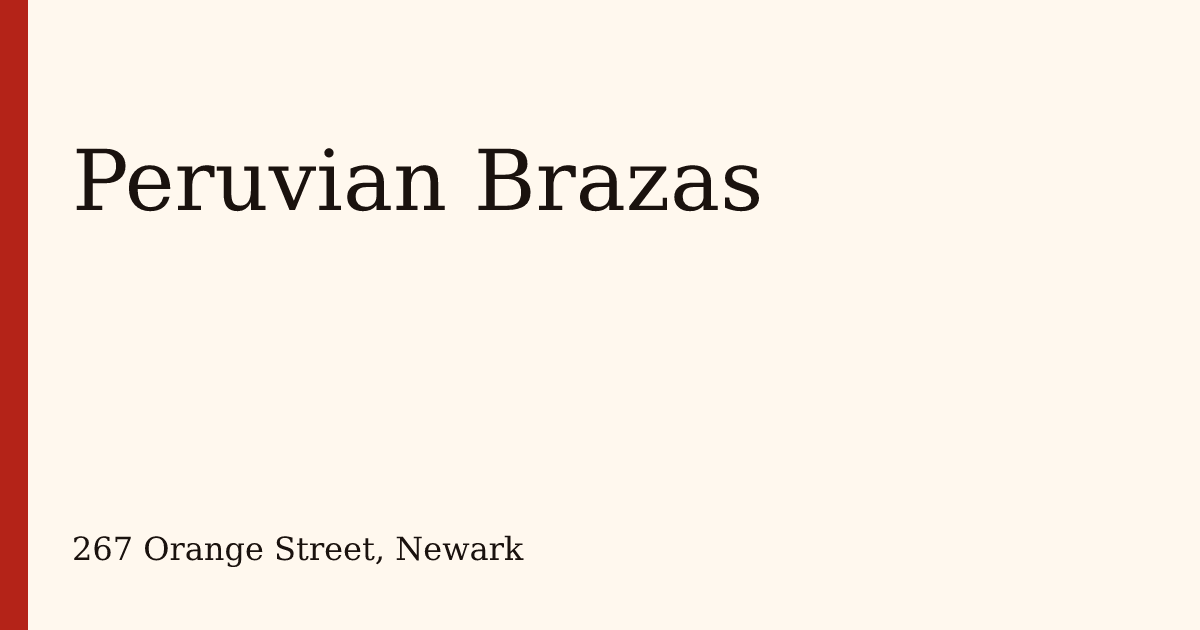
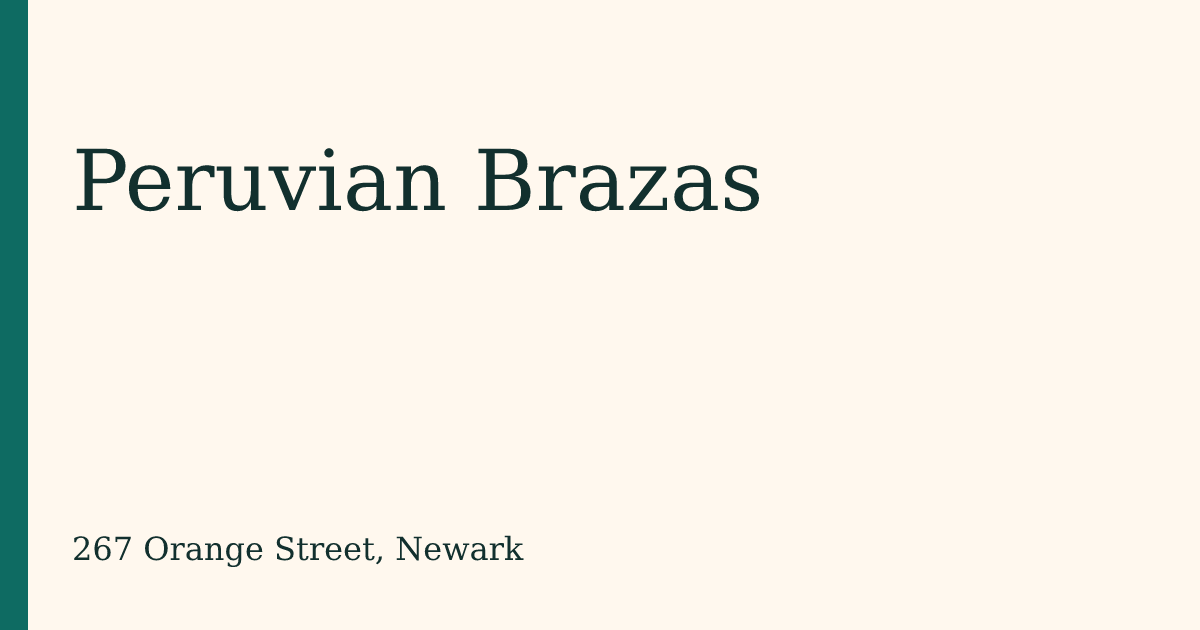
Separate the storefronts and keep Cantinho's title whole
The letterpress title no longer splits a word, and the extra hero labels are gone. Brazas, Sabor, Virgen, J&V, Boi, and Cantinho now use accents and bands that stay apart. About text states the restaurant, Spanish hours nav says Horario, a delivery fee year must be an integer beside a fee, and pickup clears the address error.

diff --git a/src/styles/global.css b/src/styles/global.css
@@ -53,9 +53,8 @@ main a:not(.button),
   display: inline-block;
   box-sizing: border-box;
   min-height: 44px;
-  min-width: 44px;
   max-width: 100%;
-  padding: 0.55rem 0.2rem;
+  padding: 0.55rem 0;
   overflow-wrap: anywhere;
 }
 
@@ -238,7 +237,8 @@ h2,
 h1 {
   font-size: clamp(2.7rem, 12vw, 7rem);
   letter-spacing: 0;
-  overflow-wrap: break-word;
+  overflow-wrap: normal;
+  hyphens: manual;
 }
 
 h2 {
@@ -737,20 +737,8 @@ pre.list-text {
 }
 
 .poster-sheet {
-  display: grid;
-  grid-template-columns: 4.2rem minmax(0, 1fr);
-  column-gap: 0.9rem;
   padding: 1.1rem 1rem 1.4rem;
-}
-
-.poster-index {
-  grid-row: 1 / span 4;
-  margin: 0;
-  writing-mode: vertical-rl;
-  transform: rotate(180deg);
-  font-weight: 700;
-  border-right: 3px solid var(--accent);
-  padding-right: 0.45rem;
+  border-left: 10px solid var(--accent);
 }
 
 .hero-poster h1 {
@@ -769,15 +757,6 @@ pre.list-text {
   background: transparent;
   color: var(--on-band);
   border-color: var(--on-band);
-}
-
-.tide-kicker {
-  margin: 0 0 0.45rem;
-  display: inline-block;
-  background: var(--accent);
-  color: var(--on-accent);
-  padding: 0.35rem 0.7rem;
-  font-weight: 700;
 }
 
 .tide-panel {
@@ -806,27 +785,15 @@ pre.list-text {
   font-size: clamp(3rem, 14vw, 7.5rem);
 }
 
-.slab-street {
-  margin: 0 0 0.2rem;
-  font-weight: 650;
-}
-
 .hero-butcher .butcher-rest {
   padding: 1rem;
 }
 
 .hero-counter .window {
-  border: 3px solid var(--ink);
+  border: 3px solid var(--accent);
+  background: var(--band);
   padding: 0.9rem 0.9rem 1.1rem;
   max-width: 36rem;
-}
-
-.counter-tab {
-  margin: -0.9rem -0.9rem 0.75rem;
-  padding: 0.4rem 0.75rem;
-  background: var(--accent);
-  color: var(--on-accent);
-  font-weight: 700;
 }
 
 .press-card {
@@ -840,11 +807,9 @@ pre.list-text {
 .press-card h1 {
   font-weight: 700;
   max-width: none;
-}
-
-.press-street {
-  margin: 0.35rem 0 0;
-  font-size: 0.95rem;
+  font-size: clamp(2.4rem, 7vw, 4rem);
+  overflow-wrap: normal;
+  hyphens: manual;
 }
 
 .press-card .cta-row,
@@ -871,12 +836,6 @@ pre.list-text {
   max-width: 34rem;
   margin-inline: auto;
   padding-top: 0.6rem;
-}
-
-.chapel-street {
-  margin: 0;
-  font-family: var(--font-display);
-  font-size: 1.15rem;
 }
 
 .hero-chapel h1 {

diff --git a/DESIGN.md b/DESIGN.md
@@ -14,16 +14,16 @@ Open and closed use `America/New_York`. Unknown hours stay unknown.
 
 | Restaurant | Paper / ink / accent | Display | Hero | Menu |
 | --- | --- | --- | --- | --- |
-| J&V Grill | Beige #F4E6D2, forest #1B4D32 | Fraunces | Cafeteria ticket | Rows, names only |
+| J&V Grill | Beige #F4E6D2, forest #1B4D32, gold #4A460C | Fraunces | Cafeteria ticket | Rows, names only |
 | Andros Diner | Ivory #F4EFE4, maroon #7C1E28, mustard #6E5010 | Bowlby One | Marquee | Leaders, 2018 menu |
-| Boi Na Brasa | Cream #F7F0E4, wood band #4A2A16, crimson #7C1E3A | Anton | Poster, street rail | Rows. Named dishes, then a labeled sample |
-| Brisas del Mar | Foam #F2F5F1, sea #0E3E4A, lime #4E6B0E | Young Serif | Tide, kicker chip | Leaders, four published prices |
+| Boi Na Brasa | Cream #F7F0E4, gold wood #6E4E14, crimson #7C1E3A | Anton | Poster, left accent bar | Rows. Named dishes, then a labeled sample |
+| Brisas del Mar | Foam #F2F5F1, sea #0E3E4A, lime #4E6B0E | Young Serif | Tide panel | Leaders, four published prices |
 | Cityrub | Butcher paper #F6EFE6, soot #16110E, ember #8C3C0C | Oswald | Butcher slab | Rows, SinglePlatform prices |
-| Peruvian Brazas | Warm paper #FFF8EE, ink #1A120E, red #B42318 | Bricolage Grotesque | Counter window | Rows, names only |
-| Cantinho Mineiro | Paper #F7F3E8, ink #1C2410, leaf #3E6B1A | Libre Baskerville | Letterpress card | Hanging names |
-| Sabor Unido | Paper #F3EEE6, navy #152E40 | Petrona | Two columns, Saturday feijoada | Rows, published menu |
-| Virgen de la Nube | Paper #F7F4EE, ink #14233F, blue #1A3278 | Cormorant Garamond | Chapel stack | Hanging names, labeled sample |
+| Peruvian Brazas | Warm paper #FFF8EE, teal ink #12302E, pale band #EDEEEC, teal #0E6B62 | Bricolage Grotesque | Counter window | Rows, names only |
+| Cantinho Mineiro | Paper #F7F3E8, ink #1C2410, green #1F6B4A | Libre Baskerville | Letterpress card | Hanging names |
+| Sabor Unido | Paper #F3EEE6, navy #12324E, terracotta #B42E1C | Petrona | Two columns, Saturday feijoada | Rows, published menu |
+| Virgen de la Nube | Paper #F7F4EE, plum ink #2A1848, blue #1A3278, plum #7A3A68 | Cormorant Garamond | Chapel stack | Hanging names, labeled sample |
 
-Palette cues that come from a real surface: J&V beige is sampled from a photo of the room and the forest green is the cafeteria awning. Andros keeps diner maroon and mustard. Brisas keeps sea blue and lime. Cityrub's soot and ember follow the dark wood of the room and the black site. Boi's wood band is sampled from a photo of the room. Sabor's navy matches the restaurant site. Boi's crimson, Brazas red, Cantinho leaf green, and Virgen blue are separation choices where no awning color was available. These are not national-flag palettes. Accent hues are checked in pairs, and the hero variant is not part of that check.
+Palette cues that come from a real surface: J&V beige is sampled from a photo of the room and the forest green is the cafeteria awning. Andros keeps diner maroon and mustard. Brisas keeps sea blue and lime. Cityrub's soot and ember follow the dark wood of the room and the black site. Boi's wood band is sampled from a photo of the room and shifted toward gold. Sabor's navy follows the restaurant site, with a terracotta accent. Accent, band, and ink hues are checked in pairs, and each accent is also checked against that restaurant's own band. The hero variant is not part of that check.
 
 Checkout on every page ends on the sentence "Demo site: no order was placed. Call to order."
